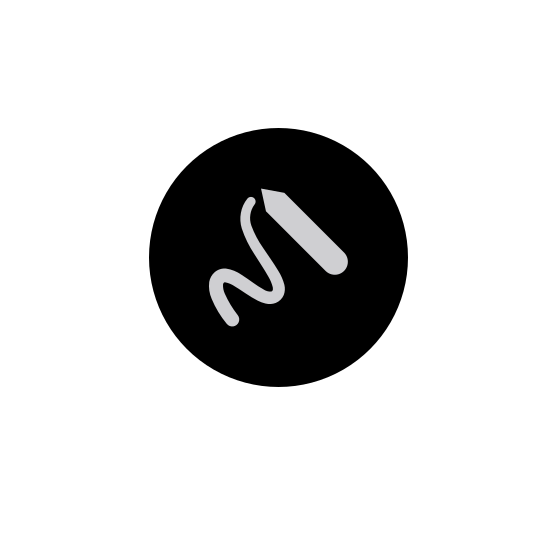
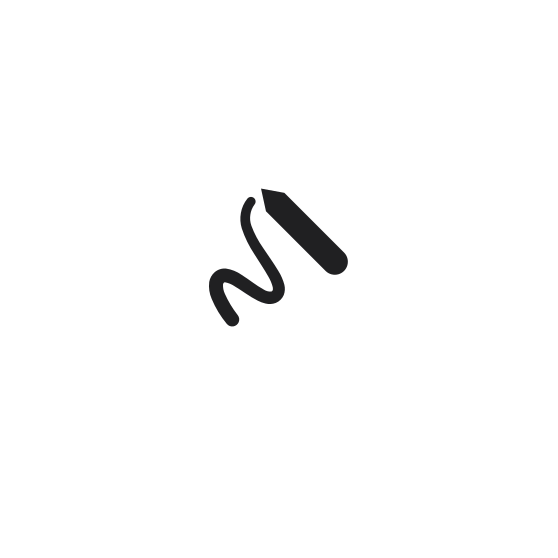
Update public assets

Changed region(s): [[0.2437, 0.2133, 0.7312, 0.7007]]

diff --git a/main.template.html b/main.template.html
@@ -13,11 +13,14 @@
     <link rel="apple-touch-icon" sizes="180x180" href="/public/apple-touch-icon.png">
     <link rel="icon" type="image/png" sizes="32x32" href="/public/favicon-32x32.png">
     <link rel="icon" type="image/png" sizes="16x16" href="/public/favicon-16x16.png">
-    <link rel="icon" href="/public/favicon.ico" />
     <link crossorigin="use-credentials" rel="manifest" href="/public/site.webmanifest">
-    <link rel="mask-icon" href="/public/safari-pinned-tab.svg" color="#5bbad5">
-    <meta name="msapplication-TileColor" content="#da532c">
-    <meta name="theme-color" content="#ffffff">
+    <link rel="mask-icon" href="/public/safari-pinned-tab.svg" color="#202023">
+    <link rel="shortcut icon" href="/public/favicon.ico">
+    <meta name="apple-mobile-web-app-title" content="Really Simple Notes">
+    <meta name="application-name" content="Really Simple Notes">
+    <meta name="msapplication-TileColor" content="#202023">
+    <meta name="msapplication-config" content="/public/browserconfig.xml">
+    <meta name="theme-color" content="#202023">
     <meta property="og:type" content="website">
     <meta property="og:image" content="/public/screenshot.png">
     <meta property="twitter:card" content="summary_large_image">
